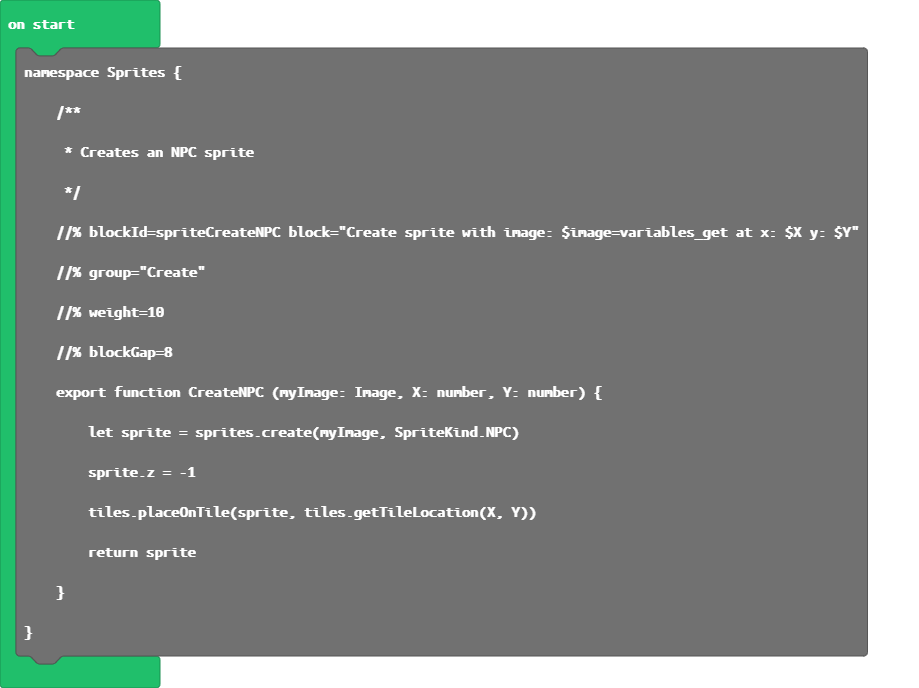
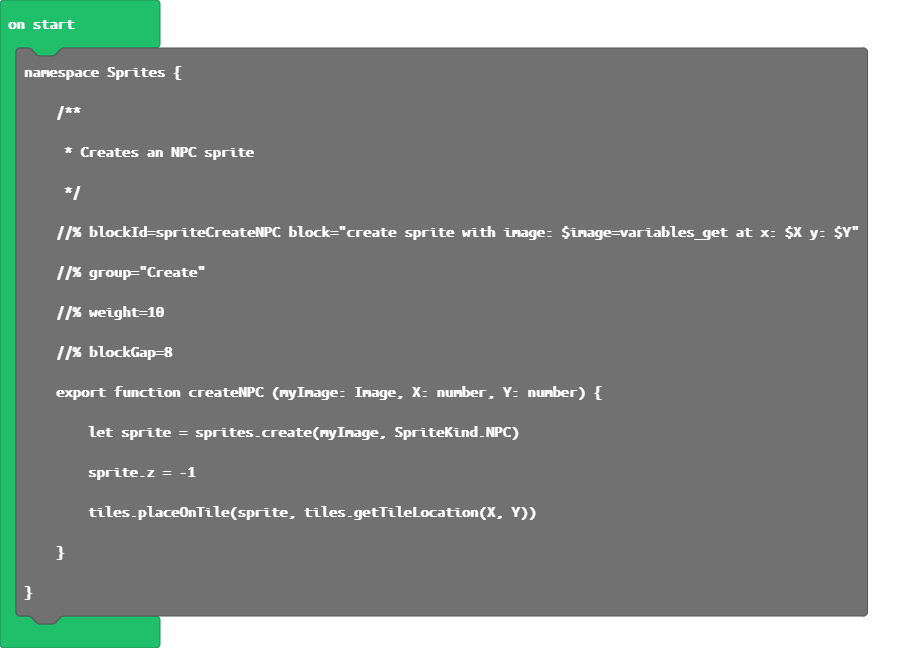
Update main.blocks, main.ts

diff --git a/main.ts b/main.ts
@@ -5,7 +5,7 @@ namespace Sprites {
     /**
      * Creates an NPC sprite
      */
-    //% blockId=spriteCreateNPC block="Create sprite with image: $image=variables_get at x: $X y: $Y"
+    //% blockId=spriteCreateNPC block="create sprite with image: $image=variables_get at x: $X y: $Y"
     //% group="Create"
     //% weight=10
     //% blockGap=8
